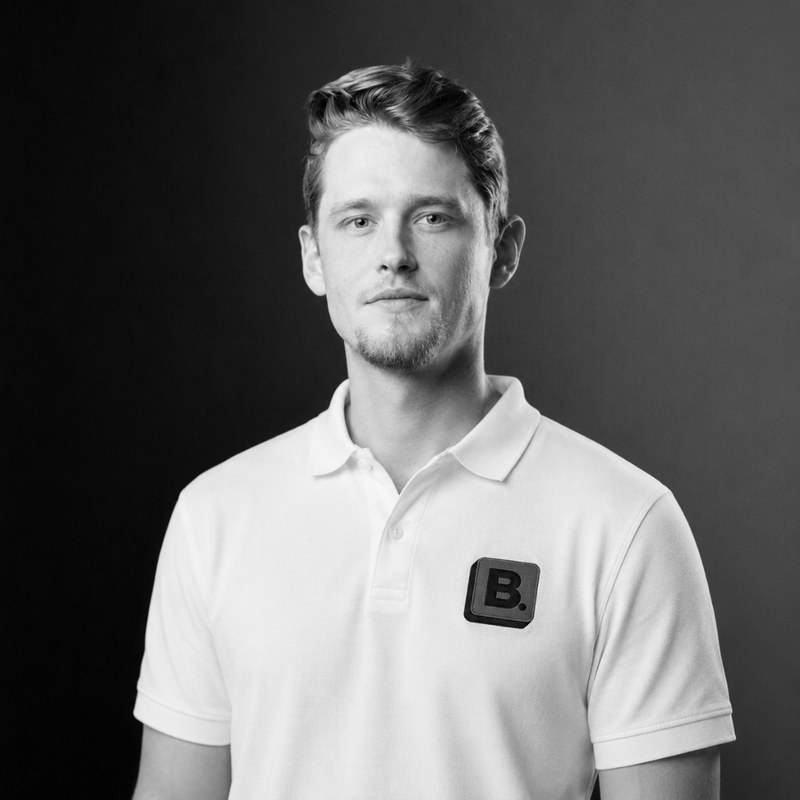
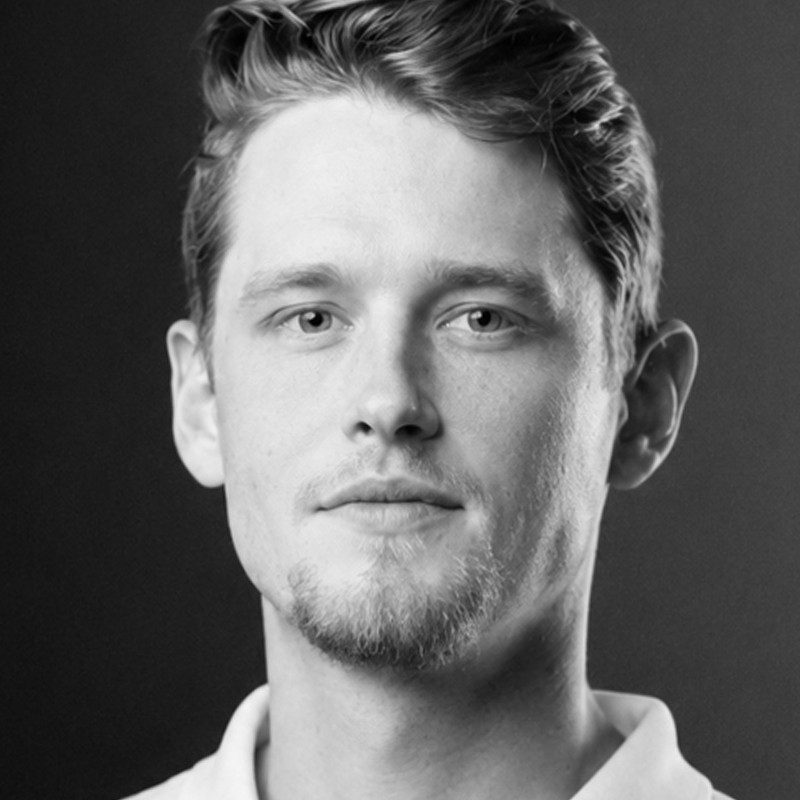
Realign all 19 team photos to identical framing; rebuild homepage as full-viewport stacked-cover slides (alternating dark/light)

diff --git a/index.html b/index.html
@@ -42,7 +42,86 @@ html[data-theme="light"] {
 
 * { box-sizing: border-box; }
 html, body { margin: 0; padding: 0; }
-html { scroll-behavior: smooth; }
+html { scroll-behavior: smooth; scroll-snap-type: y proximity; }
+
+/* ============================================================
+   STACKED-COVER SLIDE SYSTEM (CSS position:sticky stacking)
+   Each .slide sticks to top:0 with an OPAQUE background, so the
+   next slide scrolls UP and COVERS the previous one. Only one
+   block is visible at a time. Backgrounds alternate dark/light
+   via scoped token redefinitions, independent of data-theme.
+   ============================================================ */
+:root { --nav-h: 74px; }
+@media (max-width: 880px) { :root { --nav-h: 66px; } }
+
+.slides { position: relative; z-index: 1; }
+
+.slide {
+  position: sticky;
+  top: 0;
+  min-height: 100vh;
+  display: flex;
+  flex-direction: column;
+  justify-content: center;
+  scroll-snap-align: start;
+  scroll-margin-top: var(--nav-h);
+  /* OPAQUE bg + top shadow so the covering edge reads as it slides up */
+  isolation: isolate;
+}
+.slide > * { position: relative; z-index: 1; }
+
+/* The slide content sits clear of the fixed nav at the top */
+.slide { padding-top: var(--nav-h); }
+
+/* Forced DARK slide — redefines tokens locally */
+.slide--dark {
+  --bg:#0a0a0a; --bg-elev:#111111; --bg-elev-2:#171717;
+  --line:#262626; --line-strong:#3d3d3d;
+  --fg:#f4f4f4; --fg-dim:#a0a0a0; --fg-mute:#6a6a6a;
+  --accent:#ffffff; --accent-ink:#0a0a0a;
+  --grid:rgba(255,255,255,0.035); --card:#131313;
+  background:#0a0a0a; color:#f4f4f4;
+  box-shadow: 0 -28px 60px -20px rgba(0,0,0,0.65);
+}
+/* Forced LIGHT slide — redefines tokens locally */
+.slide--light {
+  --bg:#f6f6f4; --bg-elev:#efefec; --bg-elev-2:#e8e8e4;
+  --line:#dedcd6; --line-strong:#bcbab3;
+  --fg:#0a0a0a; --fg-dim:#5a5a5a; --fg-mute:#8a8a8a;
+  --accent:#0a0a0a; --accent-ink:#f6f6f4;
+  --grid:rgba(0,0,0,0.04); --card:#efefec;
+  background:#f6f6f4; color:#0a0a0a;
+  box-shadow: 0 -28px 60px -22px rgba(0,0,0,0.22);
+}
+
+/* Neutralize per-section borders/padding now that slides own layout */
+.slide.section { border-top: 0; }
+.slide .section { border-top: 0; }
+/* Neutralize conflicting section/footer backgrounds so the slide bg wins */
+.slide.footer { background: #0a0a0a; }
+.slide.solution-bg { background: inherit; }
+.slide[style*="background"] { /* inline bg neutralized below per-element */ }
+
+/* Footer is the final, non-sticky stacked layer; sits naturally at bottom */
+.slide--footer {
+  position: relative;
+  top: auto;
+  min-height: auto;
+  justify-content: flex-start;
+  scroll-snap-align: none;
+}
+
+/* Within sticky slides, reveal must never stay invisible.
+   Make reveal fall back to visible; the .in transition still enhances. */
+.slides .reveal { opacity: 1; transform: none; }
+.slides .reveal:not(.in) { opacity: 1; }
+
+/* Allow inner wrappers to take full width inside the centered slide */
+.slide > .wrap, .slide > .wrap-wide { width: 100%; }
+
+@media (prefers-reduced-motion: reduce) {
+  html { scroll-snap-type: none; }
+}
 body {
   background: var(--bg);
   color: var(--fg);
@@ -132,14 +211,27 @@ button { font-family: inherit; cursor: pointer; border: 0; background: none; col
 
 /* ---------- nav ---------- */
 .nav {
-  position: sticky;
+  position: fixed;
   top: 0;
-  z-index: 50;
-  backdrop-filter: blur(14px);
-  -webkit-backdrop-filter: blur(14px);
-  background: color-mix(in oklab, var(--bg) 75%, transparent);
-  border-bottom: 1px solid var(--line);
+  left: 0;
+  right: 0;
+  z-index: 100;
+  backdrop-filter: blur(14px) saturate(140%);
+  -webkit-backdrop-filter: blur(14px) saturate(140%);
+  /* Pinned over both black and white slides: keep dark-theme look,
+     semi-opaque so it stays readable regardless of slide beneath. */
+  background: rgba(10,10,10,0.72);
+  border-bottom: 1px solid rgba(255,255,255,0.12);
 }
+/* Force nav internals to readable light-on-dark regardless of slide tokens */
+.nav .logo-name { color: #f4f4f4; }
+.nav .logo-by { color: #0a0a0a; background: #f4f4f4; }
+.nav .nav-links { color: #a0a0a0; }
+.nav .nav-links a:hover { color: #ffffff; }
+.nav .nav-cta .mono { color: #a0a0a0 !important; }
+.nav .btn-primary { background: #ffffff; color: #0a0a0a; }
+.nav .btn-ghost { border-color: #3d3d3d; color: #f4f4f4; }
+.nav .logo-mark svg rect[fill="var(--accent)"] { fill: #f4f4f4; }
 .nav-inner {
   display: flex;
   align-items: center;
@@ -1167,8 +1259,11 @@ html[data-theme="dark"] ::-webkit-scrollbar-thumb { background: var(--line-stron
   </div>
 </nav>
 
-<!-- HERO -->
-<section class="hero">
+<!-- ===== STACKED-COVER SLIDES ===== -->
+<div class="slides">
+
+<!-- SLIDE 1 — HERO + MARQUEE (DARK) -->
+<section class="hero slide slide--dark">
   <div class="wrap" style="position:relative;">
     <div class="hero-float" aria-hidden="true">
       <div class="ring"><span>UNLIMITED · REQUESTS · 48HR · DELIVERY ·</span></div>
@@ -1204,18 +1299,18 @@ html[data-theme="dark"] ::-webkit-scrollbar-thumb { background: var(--line-stron
       <span>30-day money-back</span>
     </div>
   </div>
+
+  <!-- marquee band folded into the hero slide bottom -->
+  <div class="marquee" aria-hidden="true" style="margin-top:56px;">
+    <div class="marquee-track">
+      <span>Unlimited requests</span><span>Top 1% talent</span><span>48-hour delivery</span><span>Fixed monthly rate</span><span>Pause anytime</span><span>No contracts</span>
+      <span>Unlimited requests</span><span>Top 1% talent</span><span>48-hour delivery</span><span>Fixed monthly rate</span><span>Pause anytime</span><span>No contracts</span>
+    </div>
+  </div>
 </section>
 
-<!-- MARQUEE -->
-<div class="marquee" aria-hidden="true">
-  <div class="marquee-track">
-    <span>Unlimited requests</span><span>Top 1% talent</span><span>48-hour delivery</span><span>Fixed monthly rate</span><span>Pause anytime</span><span>No contracts</span>
-    <span>Unlimited requests</span><span>Top 1% talent</span><span>48-hour delivery</span><span>Fixed monthly rate</span><span>Pause anytime</span><span>No contracts</span>
-  </div>
-</div>
-
-<!-- BOLDER TRUST -->
-<section class="section" id="bolder" style="padding: 90px 0;">
+<!-- SLIDE 2 — BOLDER TRUST (LIGHT) -->
+<section class="section slide slide--light" id="bolder" style="padding: 90px 0;">
   <div class="wrap">
     <div class="section-head reveal" style="margin-bottom: 48px;">
       <div>
@@ -1251,8 +1346,8 @@ html[data-theme="dark"] ::-webkit-scrollbar-thumb { background: var(--line-stron
   </div>
 </section>
 
-<!-- TEAM CAROUSEL (auto-generated) -->
-<section class="section" id="team" style="padding: 90px 0;">
+<!-- SLIDE 3 — TEAM CAROUSEL (DARK) -->
+<section class="section slide slide--dark" id="team" style="padding: 90px 0;">
   <div class="wrap">
     <div class="section-head reveal" style="margin-bottom: 40px;">
       <div>
@@ -1729,7 +1824,8 @@ html[data-theme="dark"] ::-webkit-scrollbar-thumb { background: var(--line-stron
 
 
 <!-- PROBLEM -->
-<section class="section" id="problem">
+<!-- SLIDE 4 — PROBLEM (LIGHT) -->
+<section class="section slide slide--light" id="problem">
   <div class="wrap">
     <div class="section-head reveal">
       <div>
@@ -1769,7 +1865,8 @@ html[data-theme="dark"] ::-webkit-scrollbar-thumb { background: var(--line-stron
 </section>
 
 <!-- SOLUTION -->
-<section class="section solution-bg" id="features">
+<!-- SLIDE 5 — SOLUTION / FEATURES (DARK) -->
+<section class="section slide slide--dark" id="features">
   <div class="wrap">
     <div class="section-head reveal">
       <div>
@@ -1809,7 +1906,8 @@ html[data-theme="dark"] ::-webkit-scrollbar-thumb { background: var(--line-stron
 </section>
 
 <!-- HOW -->
-<section class="section" id="how">
+<!-- SLIDE 6 — HOW IT WORKS (LIGHT) -->
+<section class="section slide slide--light" id="how">
   <div class="wrap">
     <div class="section-head reveal">
       <div>
@@ -1843,7 +1941,8 @@ html[data-theme="dark"] ::-webkit-scrollbar-thumb { background: var(--line-stron
 </section>
 
 <!-- PRICING -->
-<section class="section" id="pricing" style="background: var(--bg-elev);">
+<!-- SLIDE 7 — PRICING (DARK) -->
+<section class="section slide slide--dark" id="pricing">
   <div class="wrap">
     <div class="section-head reveal">
       <div>
@@ -1926,7 +2025,8 @@ html[data-theme="dark"] ::-webkit-scrollbar-thumb { background: var(--line-stron
 </section>
 
 <!-- TESTIMONIALS -->
-<section class="section" id="testimonials">
+<!-- SLIDE 8 — TESTIMONIALS (LIGHT) -->
+<section class="section slide slide--light" id="testimonials">
   <div class="wrap">
     <div class="section-head reveal">
       <div>
@@ -1980,7 +2080,8 @@ html[data-theme="dark"] ::-webkit-scrollbar-thumb { background: var(--line-stron
 </section>
 
 <!-- FAQ -->
-<section class="section" id="faq">
+<!-- SLIDE 9 — FAQ (DARK) -->
+<section class="section slide slide--dark" id="faq">
   <div class="wrap" style="max-width: 1000px;">
     <div class="section-head reveal" style="grid-template-columns: 1fr;">
       <div>
@@ -2050,8 +2151,8 @@ html[data-theme="dark"] ::-webkit-scrollbar-thumb { background: var(--line-stron
   </div>
 </section>
 
-<!-- FOOTER CTA -->
-<section class="foot-cta section">
+<!-- SLIDE 10 — FOOTER CTA (LIGHT) -->
+<section class="foot-cta section slide slide--light">
   <div class="wrap">
     <div class="reveal">
       <h2>Ready to build<br>something <em>absurdly</em><br>good?</h2>
@@ -2065,8 +2166,8 @@ html[data-theme="dark"] ::-webkit-scrollbar-thumb { background: var(--line-stron
   </div>
 </section>
 
-<!-- FOOTER -->
-<footer class="footer">
+<!-- SLIDE 11 — FOOTER (DARK, final non-sticky layer) -->
+<footer class="footer slide slide--dark slide--footer">
   <div class="wrap">
     <div class="footer-grid">
       <div class="footer-brand">
@@ -2114,6 +2215,7 @@ html[data-theme="dark"] ::-webkit-scrollbar-thumb { background: var(--line-stron
     </div>
   </div>
 </footer>
+</div><!-- /.slides -->
 
 <!-- TWEAKS PANEL -->
 <div class="tweaks" id="tweaksPanel">
